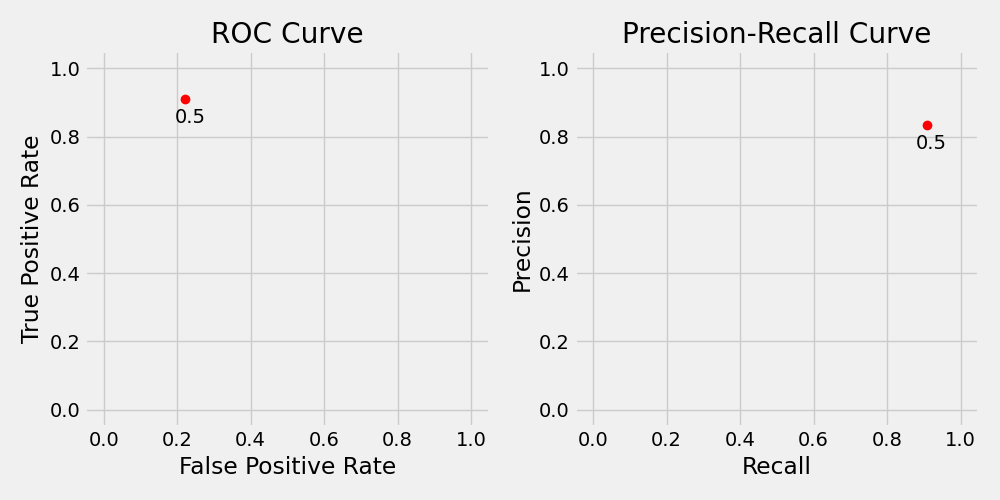
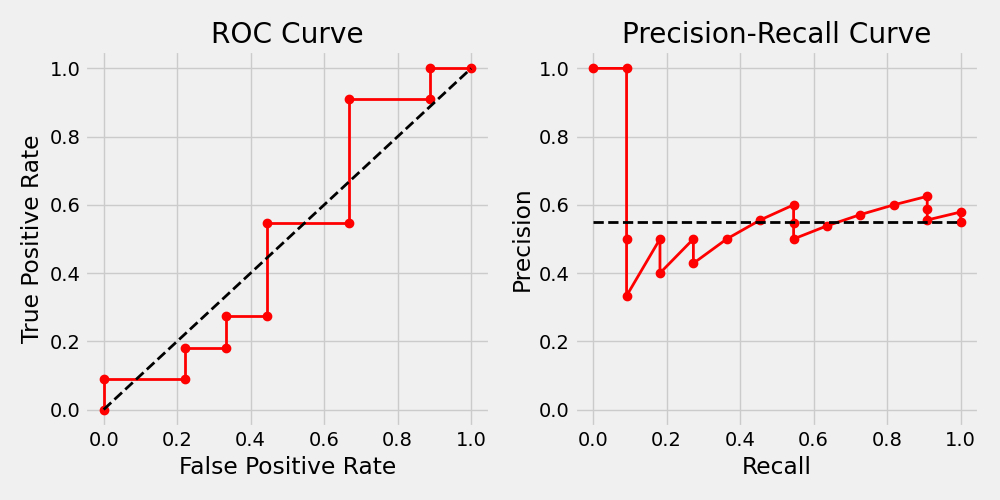
complete chapter 3

diff --git a/chapter3.py b/chapter3.py
@@ -179,3 +179,61 @@ print("precision, recall: ", precision_recall(cm_thresh50))
 
 ## Trade-offs and Curves
 fig = eval_curves_from_probs(y_val, probabilities_val, [0.5], annot=True)
+
+print("Confusion matrix for threshold 0.3: ", confusion_matrix(y_val, probabilities_val >= 0.3))
+fig = eval_curves_from_probs(y_val, probabilities_val, [0.3, 0.5], annot=True)
+print("Confusion matrix for threshold 0.7: ", confusion_matrix(y_val, probabilities_val >= 0.7))
+fig = eval_curves_from_probs(y_val, probabilities_val, [0.3, 0.5, 0.7], annot=True)
+threshs = np.linspace(0., 1, 11)
+fig = figure17(y_val, probabilities_val, threshs)
+
+fpr, tpr, thresholds1 = roc_curve(y_val, probabilities_val)
+prec, rec, thresholds2 = precision_recall_curve(y_val, probabilities_val)
+fig = eval_curves(fpr, tpr, rec, prec, thresholds1, thresholds2, line=True)
+
+## The precision quirk
+fig = figure19(y_val, probabilities_val)
+
+## Best curve
+fig = figure20(y_val)
+
+## Worst curve (randomly generated)
+np.random.seed(39)
+random_probs = np.random.uniform(size=y_val.shape)
+fpr_random, tpr_random, thresholds1_random = roc_curve(y_val, random_probs)
+prec_random, rec_random, thresholds2_random = precision_recall_curve(y_val, random_probs)
+fig = figure21(y_val, random_probs)
+
+## AUC 
+auroc = auc(fpr, tpr)
+aupr = auc(rec, prec)
+print("Our aucs: ", auroc, aupr)
+# In theory, worst ROC auc is 0.5; worst precision auc is #positive/#totalsamples i.e. 0.55 in our case
+auroc_random = auc(fpr_random, tpr_random)
+aupr_random = auc(rec_random, prec_random)
+print("Bad aucs: ", auroc_random, aupr_random)
+
+# ## Putting all together
+# torch.manual_seed(13)
+# x_train_tensor = torch.as_tensor(X_train).float()
+# y_train_tensor = torch.as_tensor(y_train.reshape(-1,1)).float()
+# x_val_tensor = torch.as_tensor(X_val).float()
+# y_val_tensor = torch.as_tensor(y_val.reshape(-1,1)).float() 
+# train_dataset = TensorDataset(x_train_tensor, y_train_tensor)
+# val_dataset = TensorDataset(x_val_tensor, y_val_tensor)
+# train_loader = DataLoader(dataset=train_dataset, batch_size=16, shuffle=True)
+# val_loader = DataLoader(dataset=val_dataset, batch_size=16)
+# lr = 0.1
+# torch.manual_seed(42)
+# model = nn.Sequential()
+# model.add_module('linear', nn.Linear(2,1))
+# optimizer = optim.SGD(model.parameters(), lr=lr)
+# loss_fn = nn.BCEWithLogitsLoss()
+# n_epochs = 100
+# sbs = StepByStep(model, loss_fn, optimizer)
+# sbs.set_loaders(train_loader, val_loader)
+# sbs.train(n_epochs)
+# logits_val = sbs.predict(X_val)
+# probabilities_val = sigmoid(logits_val).squeeze()
+# cm_thresh50 = confusion_matrix(y_val, probabilities_val>=0.5)
+# print(cm_thresh50)

diff --git a/plots/chapter3.py b/plots/chapter3.py
@@ -2,7 +2,7 @@ import torch
 import numpy as np
 import matplotlib.pyplot as plt 
 from matplotlib.colors import ListedColormap 
-from sklearn.metrics import confusion_matrix
+from sklearn.metrics import confusion_matrix, roc_curve, precision_recall_curve, auc
 
 def odds(prob):
     return prob / (1 - prob)
@@ -311,5 +311,40 @@ def figure10(y, probabilities, threshold, shift, annot, colors=None):
     fig, ax = plt.subplots(1, 1, figsize=(10,2))
     probability_line(ax, y, probabilities, threshold, shift, annot, colors)
     fig.tight_layout()
+    plt.savefig('test.png')
+    return fig
+
+def figure17(y, probabilities, threshs):
+    cms = [confusion_matrix(y, probabilities>=threshold) for threshold in threshs]
+    rates = np.array(list(map(tpr_fpr, cms)))
+    precrec = np.array(list(map(precision_recall, cms)))
+    precrec = np.nan_to_num(precrec, nan=1.)
+    fig = eval_curves(rates[:,1], rates[:,0], precrec[:,1], precrec[:,0], threshs, line=True, annot=False)
+    plt.savefig('test.png')
+    return fig
+
+def figure19(y, probabilities, threshs=(0.4, 0.5, 0.57), colors=None):
+    fig, axs = plt.subplots(3, 1, figsize=(14,20))
+    probability_line(axs[0], y, probabilities, threshs[0], 0.0, False, colors)
+    probability_line(axs[1], y, probabilities, threshs[1], 0.0, False, colors)
+    probability_line(axs[2], y, probabilities, threshs[2], 0.0, False, colors)
+    plt.savefig('test.png')
+    fig.tight_layout()
+    return fig 
+
+def figure20(y):
+    fpr_perfect, tpr_perfect, threshold1_perfect = roc_curve(y, y)
+    prec_perfect, rec_perfect, threshold2_perfect = precision_recall_curve(y, y)
+    fig = eval_curves(fpr_perfect, tpr_perfect, rec_perfect, prec_perfect, threshold1_perfect, threshold2_perfect, line=True)
+    plt.savefig('test.png')
+    return fig 
+
+def figure21(y, probabilities):
+    fpr_random, tpr_random, thresholds1_random = roc_curve(y, probabilities)
+    prec_random, rec_random, thresholds2_random = precision_recall_curve(y, probabilities)
+    fig = eval_curves(fpr_random, tpr_random, rec_random, prec_random, thresholds1_random, thresholds2_random, line=True)
+    axs = fig.axes
+    axs[0].plot([0, 1], [0, 1], 'k--', linewidth=2)
+    axs[1].plot([0, 1], [y.mean(), y.mean()], 'k--', linewidth=2)
     plt.savefig('test.png')
     return fig
